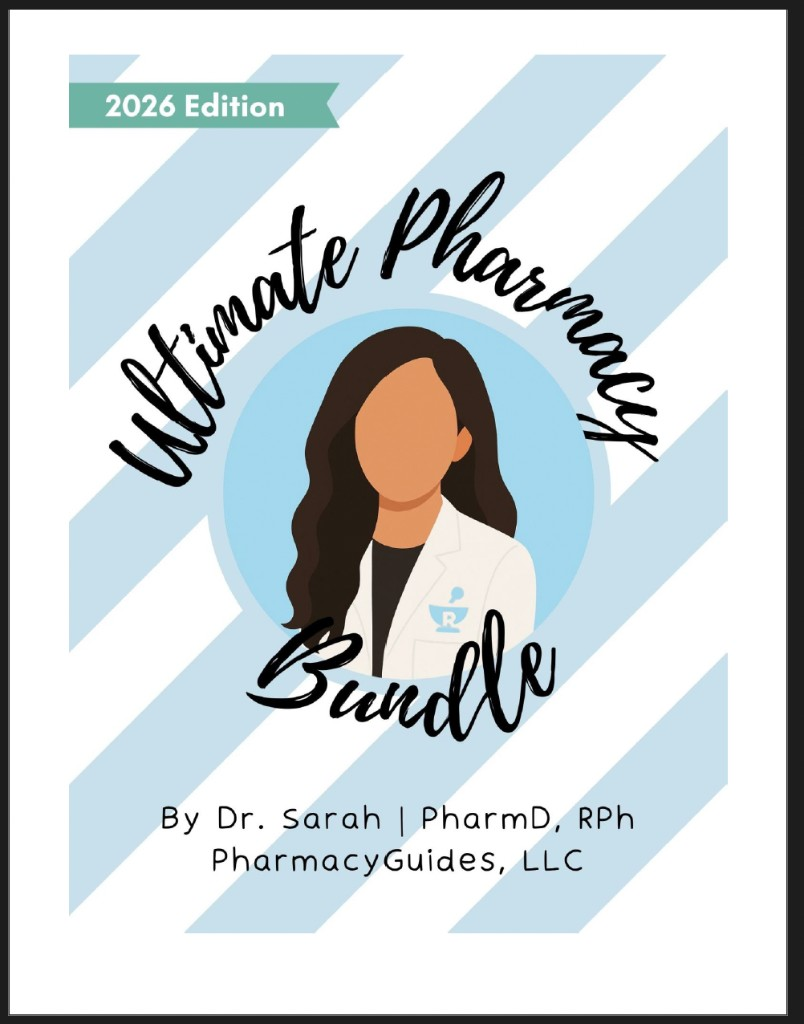
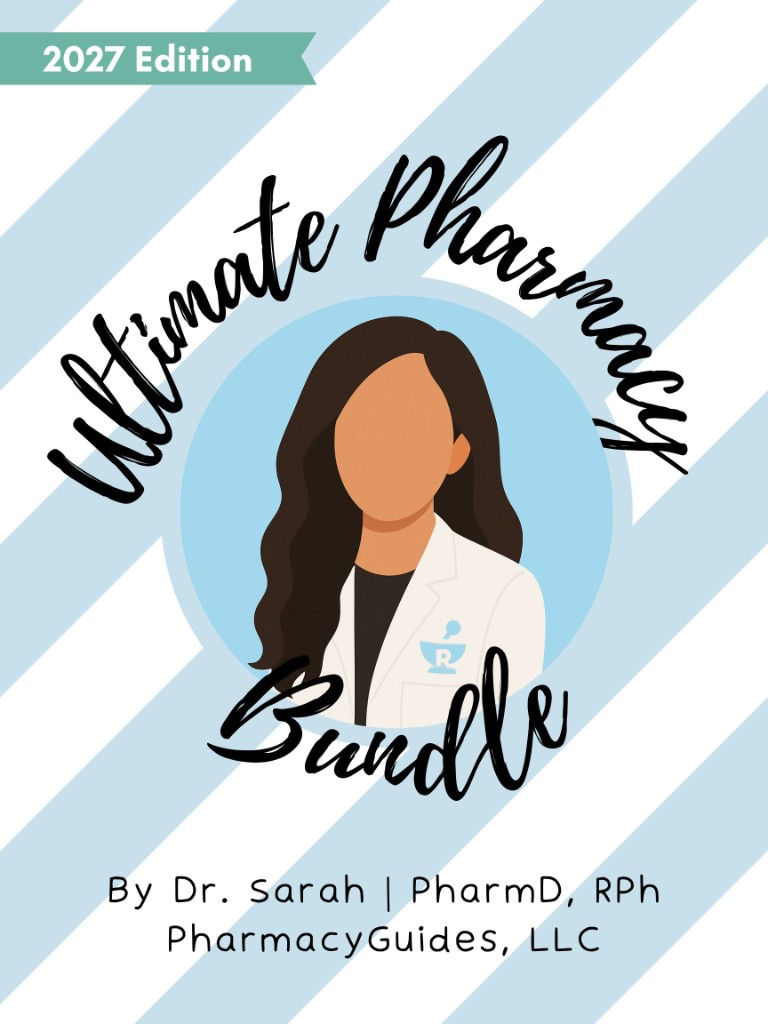
Update Ultimate Pharmacy Bundle cover to the 2027 edition.
Keep Home and Study Guides in sync with the current product artwork.

diff --git a/src/pages/Home.jsx b/src/pages/Home.jsx
@@ -128,14 +128,14 @@ export default function Home() {
           <div className="grid grid-cols-1 sm:grid-cols-[minmax(0,200px)_1fr] gap-8 sm:gap-10 items-center">
             <img
               src="/ultimate-bundle-cover.png"
-              alt="Ultimate Pharmacy Bundle 2026 Edition cover"
+              alt="Ultimate Pharmacy Bundle 2027 Edition cover"
               className="w-44 sm:w-full max-w-[200px] mx-auto rounded-xl shadow-md border border-slate-200/80"
               width={200}
               height={250}
             />
             <div className="text-center sm:text-left">
               <p className="text-teal-600 font-medium text-sm uppercase tracking-wider mb-2">
-                Bestseller
+                Bestseller · 2027 Edition
               </p>
               <h2 className="font-display text-2xl sm:text-3xl font-bold text-slate-900 mb-3">
                 The Ultimate Pharmacy Bundle

diff --git a/src/pages/StudyGuides.jsx b/src/pages/StudyGuides.jsx
@@ -212,13 +212,13 @@ export default function StudyGuides() {
               <div className="absolute -inset-3 rounded-3xl bg-gradient-to-br from-teal-100/80 to-brand-skyPastel/50 blur-sm" aria-hidden />
               <img
                 src="/ultimate-bundle-cover.png"
-                alt="Ultimate Pharmacy Bundle 2026 Edition cover by PharmacyGuides, Dr. Sarah, PharmD RPh"
+                alt="Ultimate Pharmacy Bundle 2027 Edition cover by PharmacyGuides, Dr. Sarah, PharmD RPh"
                 className="relative w-full rounded-2xl shadow-lg border border-slate-200/80 object-cover"
                 width={800}
                 height={1000}
               />
               <p className="mt-3 text-center text-xs font-semibold uppercase tracking-wider text-teal-600">
-                Bestseller · 2026 Edition
+                Bestseller · 2027 Edition
               </p>
             </div>
 